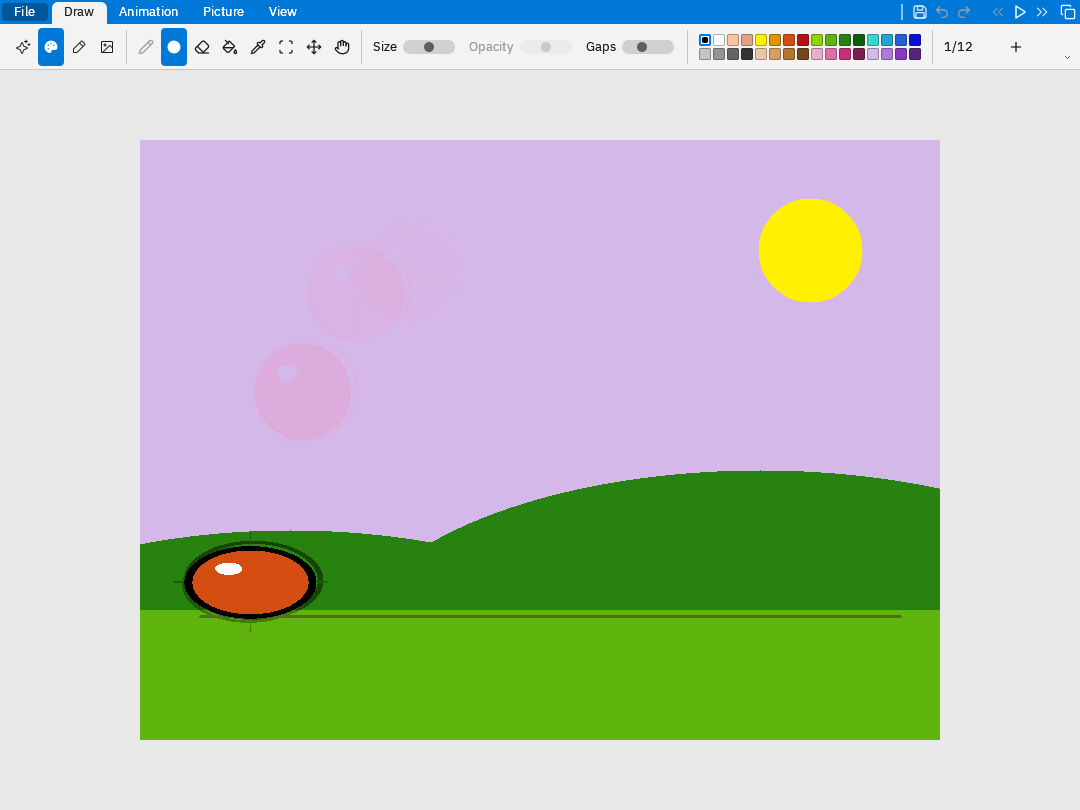
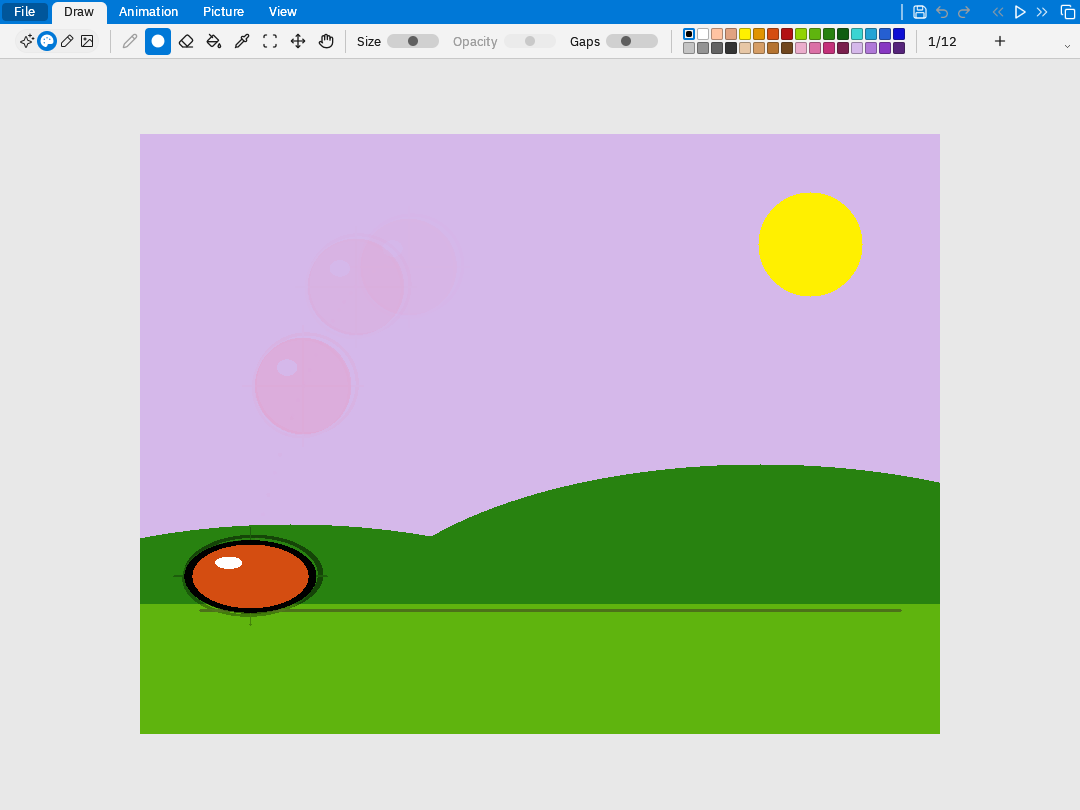
Pencil Test: the four layers are one radio group
The Layers group held four toggle buttons, which three rows split three
and one. It is now a single segmented control with the layer icons: a row
of icons in the single row, each icon over its name in three rows. The
four layer.* commands added for the buttons are gone again.

Claude-Session: https://claude.ai/code/session_01Gft4myPfhJhG5HyxaiE394

diff --git a/apps/imageeditor/tests/penciltest_ribbon_test.c b/apps/imageeditor/tests/penciltest_ribbon_test.c
@@ -32,6 +32,15 @@ static void ribbon_teardown(void) {
 static int state(int ident) { return (int)send_message(g_app->ribbon_win, rbGetState, ident, NULL); }
 static window_t *hosted(int ident) { return (window_t *)send_message(g_app->ribbon_win, rbGetControl, ident, NULL); }
 
+// Choose a segment of the Layers radio group as a tap on it does.
+static void choose_layer(int segment) {
+  window_t *layers = hosted(ID_RIBBON_LAYER);
+  send_message(layers, sgSetSelection, (uint32_t)segment, NULL);
+  send_message(g_app->ribbon_win, evCommand, MAKEDWORD(ID_RIBBON_LAYER, sgnSelChange), layers);
+}
+static int chosen_layer(void) { return (int)send_message(hosted(ID_RIBBON_LAYER), sgGetSelection, 0, NULL); }
+enum { SEG_FX, SEG_COLOR, SEG_PENCIL, SEG_BACK };
+
 static void click_item(int ident) {
   irect16_t r = {0};
   window_t *rb = g_app->ribbon_win;
@@ -79,7 +88,10 @@ static void test_layers_and_tools(void) {
   window_t *grid = hosted(ID_RIBBON_COLORS);
   ASSERT_NOT_NULL(grid);
   ASSERT_EQUAL(doc->layer.active, IE_LAYER_PENCIL);
-  ASSERT_EQUAL(state(ID_LAYER_PENCIL), TBSTATE_CHECKED);
+  window_t *layers = hosted(ID_RIBBON_LAYER);
+  ASSERT_NOT_NULL(layers);
+  ASSERT_EQUAL(send_message(layers, sgGetCount, 0, NULL), IE_LAYER_COUNT);   // one of four, always
+  ASSERT_EQUAL(chosen_layer(), SEG_PENCIL);
   ASSERT_EQUAL(state(ID_TOOL_PENCIL), TBSTATE_CHECKED);
   ASSERT(state(ID_TOOL_BRUSH) == TBSTATE_DISABLED && state(ID_TOOL_FILL) == TBSTATE_DISABLED && state(ID_TOOL_EYEDROPPER) == TBSTATE_DISABLED,
          "the pencil layer takes no paint");
@@ -87,9 +99,17 @@ static void test_layers_and_tools(void) {
          "pencil has an opacity, and neither gaps to close nor colours to choose");
   ASSERT_TRUE(window_has_state(grid, WINDOW_STATE_DISABLED));
 
-  click_item(ID_LAYER_COLOR);
+  // A tap on a segment, through the window system.
+  irect16_t seg = {0};
+  send_message(layers, sgGetSegmentRect, SEG_COLOR, &seg);
+  ui_event_t tap = {.message = kEventLeftButtonDown, .x = (window_screen_x(layers) + seg.x + seg.w / 2) * UI_WINDOW_SCALE,
+                    .y = (window_screen_y(layers) + seg.y + seg.h / 2) * UI_WINDOW_SCALE};
+  dispatch_message(&tap);
+  tap.message = kEventLeftButtonUp;
+  dispatch_message(&tap);
   ASSERT_EQUAL(doc->layer.active, IE_LAYER_COLOR);
-  ASSERT(state(ID_LAYER_COLOR) == TBSTATE_CHECKED && state(ID_LAYER_PENCIL) == 0, "the Layers group shows the working layer");
+  ASSERT_EQUAL(chosen_layer(), SEG_COLOR);
+  ASSERT(g_ui_runtime.focused != layers, "the group does not take the keyboard from the drawing");
   ASSERT(g_app->current_tool == ID_TOOL_BRUSH && state(ID_TOOL_BRUSH) == TBSTATE_CHECKED && state(ID_TOOL_PENCIL) == TBSTATE_DISABLED,
          "the drawing tool becomes the brush");
   ASSERT(state(ID_RIBBON_OPACITY) == TBSTATE_DISABLED && state(ID_RIBBON_GAPS) == 0 && state(ID_RIBBON_COLORS) == 0, "paint has gaps and colours");
@@ -115,9 +135,13 @@ static void test_layers_and_tools(void) {
 
   // The layer remembers its colour.
   int color = g_app->fg_palette_idx;
-  click_item(ID_LAYER_FX);
-  click_item(ID_LAYER_COLOR);
+  choose_layer(SEG_FX);
+  ASSERT_EQUAL(doc->layer.active, IE_LAYER_FX);
+  choose_layer(SEG_COLOR);
   ASSERT_EQUAL(g_app->fg_palette_idx, color);
+  // The group follows a layer chosen elsewhere, and Background is the fourth.
+  ASSERT_TRUE(cmd_pencil_layer(doc, IE_LAYER_BG));
+  ASSERT_EQUAL(chosen_layer(), SEG_BACK);
   ribbon_teardown();
   PASS();
 }

diff --git a/apps/imageeditor/windows/win_pencil_ribbon.c b/apps/imageeditor/windows/win_pencil_ribbon.c
@@ -13,8 +13,12 @@ typedef struct {
 } pencil_ribbon_state_t;
 static pencil_ribbon_state_t s_ribbon;
 
-static const struct { int ident, layer; } kLayerCommands[] = {
-  {ID_LAYER_FX, IE_LAYER_FX}, {ID_LAYER_COLOR, IE_LAYER_COLOR}, {ID_LAYER_PENCIL, IE_LAYER_PENCIL}, {ID_LAYER_BACK, IE_LAYER_BG},
+// The Layers radio group's segments, front of the stack first, as its title in the .orion lists them.
+static const struct { int layer; segment_glyph_t glyph; } kLayerSegments[] = {
+  {IE_LAYER_FX,     {"phosphor-sparkle",       "phosphor-sparkle-fill"}},
+  {IE_LAYER_COLOR,  {"phosphor-palette",       "phosphor-palette-fill"}},
+  {IE_LAYER_PENCIL, {"phosphor-pencil-simple", "phosphor-pencil-simple-fill"}},
+  {IE_LAYER_BG,     {"phosphor-image-square",  "phosphor-image-square-fill"}},
 };
 
 static void ribbon_state(window_t *rb, int ident, bool checked, bool disabled) {
@@ -73,8 +77,10 @@ void pencil_ribbon_sync(void) {
   if (tool != g_app->current_tool) handle_menu_command((uint16_t)tool);
   tool = imageeditor_tool_group(g_app->current_tool);
 
-  for (int i = 0; i < ARRAY_LEN(kLayerCommands); i++)
-    ribbon_state(rb, kLayerCommands[i].ident, layered && kLayerCommands[i].layer == layer, !layered);
+  window_t *layers = (window_t *)send_message(rb, rbGetControl, ID_RIBBON_LAYER, NULL);
+  for (int i = 0; layers && i < ARRAY_LEN(kLayerSegments); i++)
+    if (kLayerSegments[i].layer == layer) send_message(layers, sgSetSelection, (uint32_t)i, NULL);
+  ribbon_state(rb, ID_RIBBON_LAYER, false, !layered);
 
   // The pencil layer takes graphite only; the colour layers take paint.
   static const struct { int ident; bool paint, graphite; } kTools[] = {
@@ -152,6 +158,13 @@ result_t pencil_ribbon_proc(window_t *win, uint32_t msg, uint32_t wparam, void *
       pencil_ribbon_sync();
       return true;
     }
+    if (code == sgnSelChange && id == ID_RIBBON_LAYER && lparam) {
+      int chosen = (int)send_message(lparam, sgGetSelection, 0, NULL);
+      if (!s_ribbon.busy && chosen >= 0 && chosen < ARRAY_LEN(kLayerSegments))
+        cmd_pencil_layer(g_app->active_doc, kLayerSegments[chosen].layer);
+      pencil_ribbon_sync();   // a refused change (a selection being moved) returns the group to the working layer
+      return true;
+    }
     if (code == swnSelChange && lparam) {
       int chosen = (int)send_message(lparam, swGetSel, 0, NULL);
       if (!s_ribbon.busy && chosen >= 0 && chosen < s_ribbon.count) cmd_pencil_color(g_app->active_doc, s_ribbon.indices[chosen]);
@@ -172,6 +185,12 @@ window_t *create_pencil_ribbon(hinstance_t hinstance) {
                                            main_toolbar_proc, hinstance);
   g_app->ribbon_win = g_app->menubar_win = app_chrome_ribbon(g_app->chrome_win);
   g_app->main_toolbar_win = app_chrome_toolbar(g_app->chrome_win);
+  // In a row the layers are their icons, named by tooltips; given the group's height, each icon stands over its name.
+  window_t *layers = (window_t *)send_message(g_app->ribbon_win, rbGetControl, ID_RIBBON_LAYER, NULL);
+  if (layers) send_message(layers, sgSetStyle, SEGMENTED_STYLE_ICONS_ONLY, NULL);
+  for (int i = 0; layers && i < ARRAY_LEN(kLayerSegments); i++)
+    send_message(layers, sgSetSegmentGlyph, (uint32_t)i, (void *)&kLayerSegments[i].glyph);
+  send_message(g_app->ribbon_win, rbUpdateLayout, 0, NULL);
   imageeditor_sync_main_toolbar();   // publishes the menus and brings the ribbon up to date
   return g_app->ribbon_win;
 }

diff --git a/apps/imageeditor/windows/win_menubar.c b/apps/imageeditor/windows/win_menubar.c
@@ -492,14 +492,6 @@ void handle_menu_command(uint16_t id) {
   // If no document has focus, fall back to the first available document
   if (!doc) doc = g_app->docs;
 
-#if IMAGEEDITOR_BW
-  switch (id) {   // the four layers as commands: the ribbon's Layers group
-    case ID_LAYER_FX:     id = IE_PENCIL_LAYER_BASE + IE_LAYER_FX;     break;
-    case ID_LAYER_COLOR:  id = IE_PENCIL_LAYER_BASE + IE_LAYER_COLOR;  break;
-    case ID_LAYER_PENCIL: id = IE_PENCIL_LAYER_BASE + IE_LAYER_PENCIL; break;
-    case ID_LAYER_BACK:   id = IE_PENCIL_LAYER_BASE + IE_LAYER_BG;     break;
-  }
-#endif
   if (IMAGEEDITOR_BW && id >= IE_PENCIL_LAYER_BASE && id < IE_PENCIL_LAYER_BASE + IE_LAYER_COUNT) {
     cmd_pencil_layer(doc, id - IE_PENCIL_LAYER_BASE);
     return;

diff --git a/docs/validation/penciltest/README.md b/docs/validation/penciltest/README.md
@@ -100,9 +100,12 @@ Drawing area in the same 1080×810 window:
 | Layout | Chrome | Drawing area |
 |---|---|---|
 | Tool strip (before) | 24 px row, one-column strip at the left | 786 high, less the strip's width |
-| Ribbon, one row | 70 px | 1080×740 |
+| Ribbon, one row | 59 px | 1080×751 |
 | Ribbon, three rows | 120 px | 1080×690 |
 | Ribbon, folded | 24 px | 1080×786 |
+
+The four layers are one radio group: a segmented control with the layer icons,
+which stands each icon over its name when the ribbon has three rows.
 
 At 1080 px the one-row Draw tab shows every control; the sliders give up their
 readouts ("5px", "50%", "Small") to fit, and three rows show them.
@@ -114,4 +117,5 @@ the tab set at startup (`rbSetLayout`, `rbSetMinimized`, `rbSetActiveTab`); that
 was a temporary hook in `create_pencil_ribbon`, not part of the tree.
 
 Checks: `test_ribbon_test` 8/8 (hosted controls), `test_swatchgrid_test` 2/2,
-`test_orionc_contract_test` 21/21, `test_penciltest_ribbon_test` 4/4.
+`test_segmented_test` 7/7 (named icons, tall form), `test_orionc_contract_test` 21/21,
+`test_penciltest_ribbon_test` 4/4.

diff --git a/apps/imageeditor/ARCHITECTURE.md b/apps/imageeditor/ARCHITECTURE.md
@@ -185,8 +185,9 @@ palette (a `SwatchGrid`) and the frame counter; **Animation** the frame,
 playback, timing, onion-skin and export commands; **Picture** clipboard,
 selection, image and background commands; **View** zoom and grid. The Quick
 Access Toolbar repeats Save, Undo, Redo and the transport, so stepping and
-playing work from any tab and with the ribbon folded. The four layers are
-commands (`layer.fx`, `layer.color`, `layer.pencil`, `layer.back`).
+playing work from any tab and with the ribbon folded. The four layers are one
+radio group, a `SegmentedControl` hosted in the Layers group: icons in the single
+row, each icon over its name in three rows.
 `pencil_ribbon_sync()` brings checks, disabled states, sliders, swatches and
 readouts up to date; the existing sync points call it. What a layer cannot use
 is disabled, not removed: paint tools, Gaps and the palette on Pencil; the
